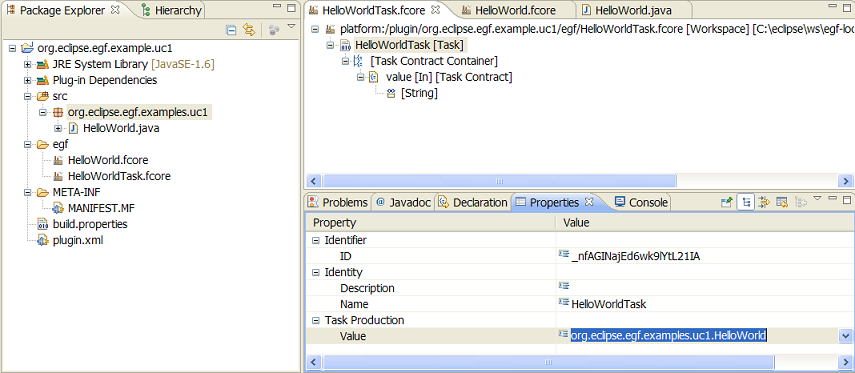
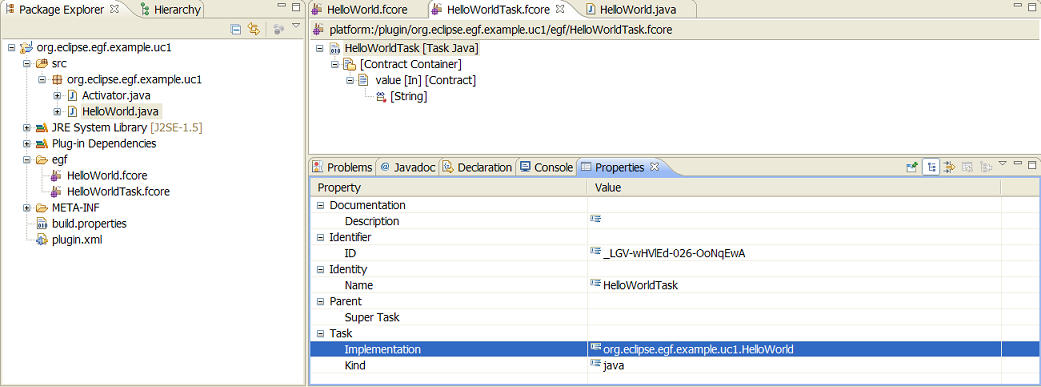
update: help doc - Tutorial Factory Component 0.2.5

diff --git a/doc/org.eclipse.egf.engine.doc/html/tutorial/part1/egf-tutorial-fc1.html b/doc/org.eclipse.egf.engine.doc/html/tutorial/part1/egf-tutorial-fc1.html
@@ -47,7 +47,7 @@
 <p class="Para">The sequence of actions to <i>create a factory component</i>:</p>
 <ul CLASS="UnorderedList">
     <li CLASS="Item">First, create a project and a folder where the factory components and tasks will be located</li>
-    <li CLASS="Item">Creation of a Factory Component - Commands: <i>[File][New][EGF Activity]</i></li>
+    <li CLASS="Item">Creation of a Factory Component - Commands: <i>[File][New][Other...]/[EGF folder][EGF Activity]</i></li>
     <li CLASS="Item">Select a project or a project folder, and set the fcore file name</li>
     <li CLASS="Item">Click on Finish or Next, and select <i>Factory Component</i> for model object</li>
     <li CLASS="Item">Click on Finish; the Factory Component is created</li>
@@ -65,7 +65,7 @@
 
 <h3 class="Head">1.3. Application</h3>
 <p class="Para">During this tutorial, a Java class will be implemented. Then, it is better to start with a Java project.</p>
-<p class="Para">Create a Factory component named <i>HelloWorld</i> and a Task named <i>HelloWorldTask</i>.</p>
+<p class="Para">Create a <u>Factory component</u> named <i>HelloWorld</i> and a <u>Task</u> named <i>HelloWorldTask</i>.</p>
 
 <p align="center">
   <img src="./images/egf_tut_fc_1_2.png" alt="New EGF Activity"/>
@@ -84,7 +84,7 @@
 </p>
 <p align="center"><i>Figure 3. Activity Contracts</i></p>  
 
-<p class="Para"><i>Task declaration and implementation</i>. A task realizes an effective work. It is necessary to differentiate the task declaration, defined in a fcore model, from the task implementation, defined in a Java class. After its declaration, a task can be invoked by different factory components. The task implementation is the means to execute any generation tool, or something else in Java. The Java class implements an <i>ITaskProduction</i> interface. It can implement three methods: preExecute, doExecute, postExecute. The task methods have a context parameter to get, set and work with the task contracts. The link between the Task and the task Java class is realized at the task level.</p>
+<p class="Para"><i>Task declaration and implementation</i>. A task realizes an effective work. It is necessary to differentiate the task declaration, defined in a fcore model, from the task implementation, defined in a Java class. After its declaration, a task can be invoked by different factory components. The task implementation is the means to execute any tool, or any code in Java. The Java class implements an <i>ITaskProduction</i> interface. It can implement three methods: preExecute, doExecute, postExecute. The task methods have a context parameter to get, set and work with the task contracts. The link between the Task and the task Java class is realized at the task level.</p>
 
 <p align="center">
   <img src="./images/egf_tut_fc_1_4.png" alt="Java Task and Java Task implementation"/>
@@ -95,10 +95,10 @@
 <h3 class="Head">2.2. Practice</h3>
 <p class="Para">Task modeling - The sequence of actions to <i>create task contracts</i>:</p>
 <ul CLASS="UnorderedList">
-    <li CLASS="Item">Creation of the task contract container - Command: on a task, <i>[New Child][Task Contract Container]</i></li>
-    <li CLASS="Item">Creation of a task contract - Command: on the task contract container, <i>[New Child][Contract]</i></li>
+    <li CLASS="Item">Creation of the contract container - Command: on a task, <i>[New Child][Contract Container]</i></li>
+    <li CLASS="Item">Creation of a contract - Command: on the task contract container, <i>[New Child][Contract]</i></li>
     <li CLASS="Item">Set the contract name, mode, and mandatory values</li>
-    <li CLASS="Item">Definition of the task contract type - Command: on the task contract, <i>[New Child][String|Integer...]</i></li>
+    <li CLASS="Item">Definition of the contract type - Command: on the contract, <i>[New Child][String|Integer...]</i></li>
     <li CLASS="Item">Set the default value on the contract type with the <i>Value</i> property</li>
 </ul>
 
@@ -116,7 +116,8 @@
 <ul CLASS="UnorderedList">
     <li CLASS="Item">Create a Class which implements the <i>ITaskProduction</i> Interface</li>
     <li CLASS="Item">Implement the task class</li>
-    <li CLASS="Item">Associate the task with the task Java class - Command: on the [Java Task], on the <i>Implementation</i> property, select a Java task class</li>
+    <li CLASS="Item">Declare the (fcore) task as a Java Task - Command: on the [Task], set the <i>Task/kind</i> property to <i>java</i></li>
+    <li CLASS="Item">Associate the task with the task Java class - Command: on the [Task], on the <i>Implementation</i> property, select a Java task class</li>
 </ul>
 
 <p align="center">
@@ -130,8 +131,8 @@
 import org.eclipse.core.runtime.IProgressMonitor;
 import org.eclipse.egf.core.EGFCorePlugin;
 import org.eclipse.egf.core.producer.InvocationException;
-import org.eclipse.egf.fprod.producer.context.ITaskProductionContext;
-import org.eclipse.egf.fprod.producer.invocation.ITaskProduction;
+import org.eclipse.egf.ftask.producer.context.ITaskProductionContext;
+import org.eclipse.egf.ftask.producer.invocation.ITaskProduction;
 
 
 public class HelloWorld implements ITaskProduction {
@@ -186,24 +187,19 @@ public class HelloWorld implements ITaskProduction {
 
 <p class="Para">The sequence of actions to <i>create an invocation</i> in a production plan:</p>
 <ul CLASS="UnorderedList">
-    <li CLASS="Item">Commands: on a production plan, <i>[New Child][Production Plan Invocation]</i></li>
-    <li CLASS="Item">Set the Name with semantic meaning</li>
-    <li CLASS="Item">In the Activity section of the production plan invocation, set the <i>Invoked Activity</i> property: select a task or factory component</li>
+    <li CLASS="Item">Commands: on a production plan, <i>[Invoke Activity] and select an activity</i>. <i>Next</i> menu allows selecting parameters involved in the invocation.</li>
 </ul>
 
-<p class="Para">The sequence of actions to <i>create task invocation values</i> in a task invocation:</p>
+<p class="Para">The sequence of actions to <i>set values</i> for the invocation:</p>
 <ul CLASS="UnorderedList">
-    <li CLASS="Item">First, create an invocation context - Commands: on a task invocation, <i>[New Child][Invocation Contract Container]</i></li>
-    <li CLASS="Item">For each task contract to be valued - Commands: on an invocation context container, <i>[New Child][Invocation Contract]</i></li>
-    <li CLASS="Item">On the invocation contract, in the <i>Invoked Contract</i> property of the <i>Behaviour</i> section, select the concerned task contract to be valued</li>
-    <li CLASS="Item">Definition of an Invocation Contract value - Commands: on an invocation contract, <i>[New Child][the activity contract type, e.g. String]</i></li>
+    <li CLASS="Item">Commands: on an invocation contract, <i>[New Child][the activity contract type, e.g. String]</i></li>
     <li CLASS="Item">Set the value</li>
 </ul>
 
 <p class="Para">The two last steps are necessary when the default value of the task contract must be redefined or is undefined and madatory.</p>
 
 <h3 class="Head">3.3. Application</h3>
-<p class="Para">Create a task invocation without Invocation Contract (the default value of the task contract is used) and one with.</p>
+<p class="Para">In the <i>HelloWorld</i> factory component, create a task invocation without invocation contract (the default value of the task contract is used) and another one with an invocation contract and the associated value.</p>
 
 
 <br/>
